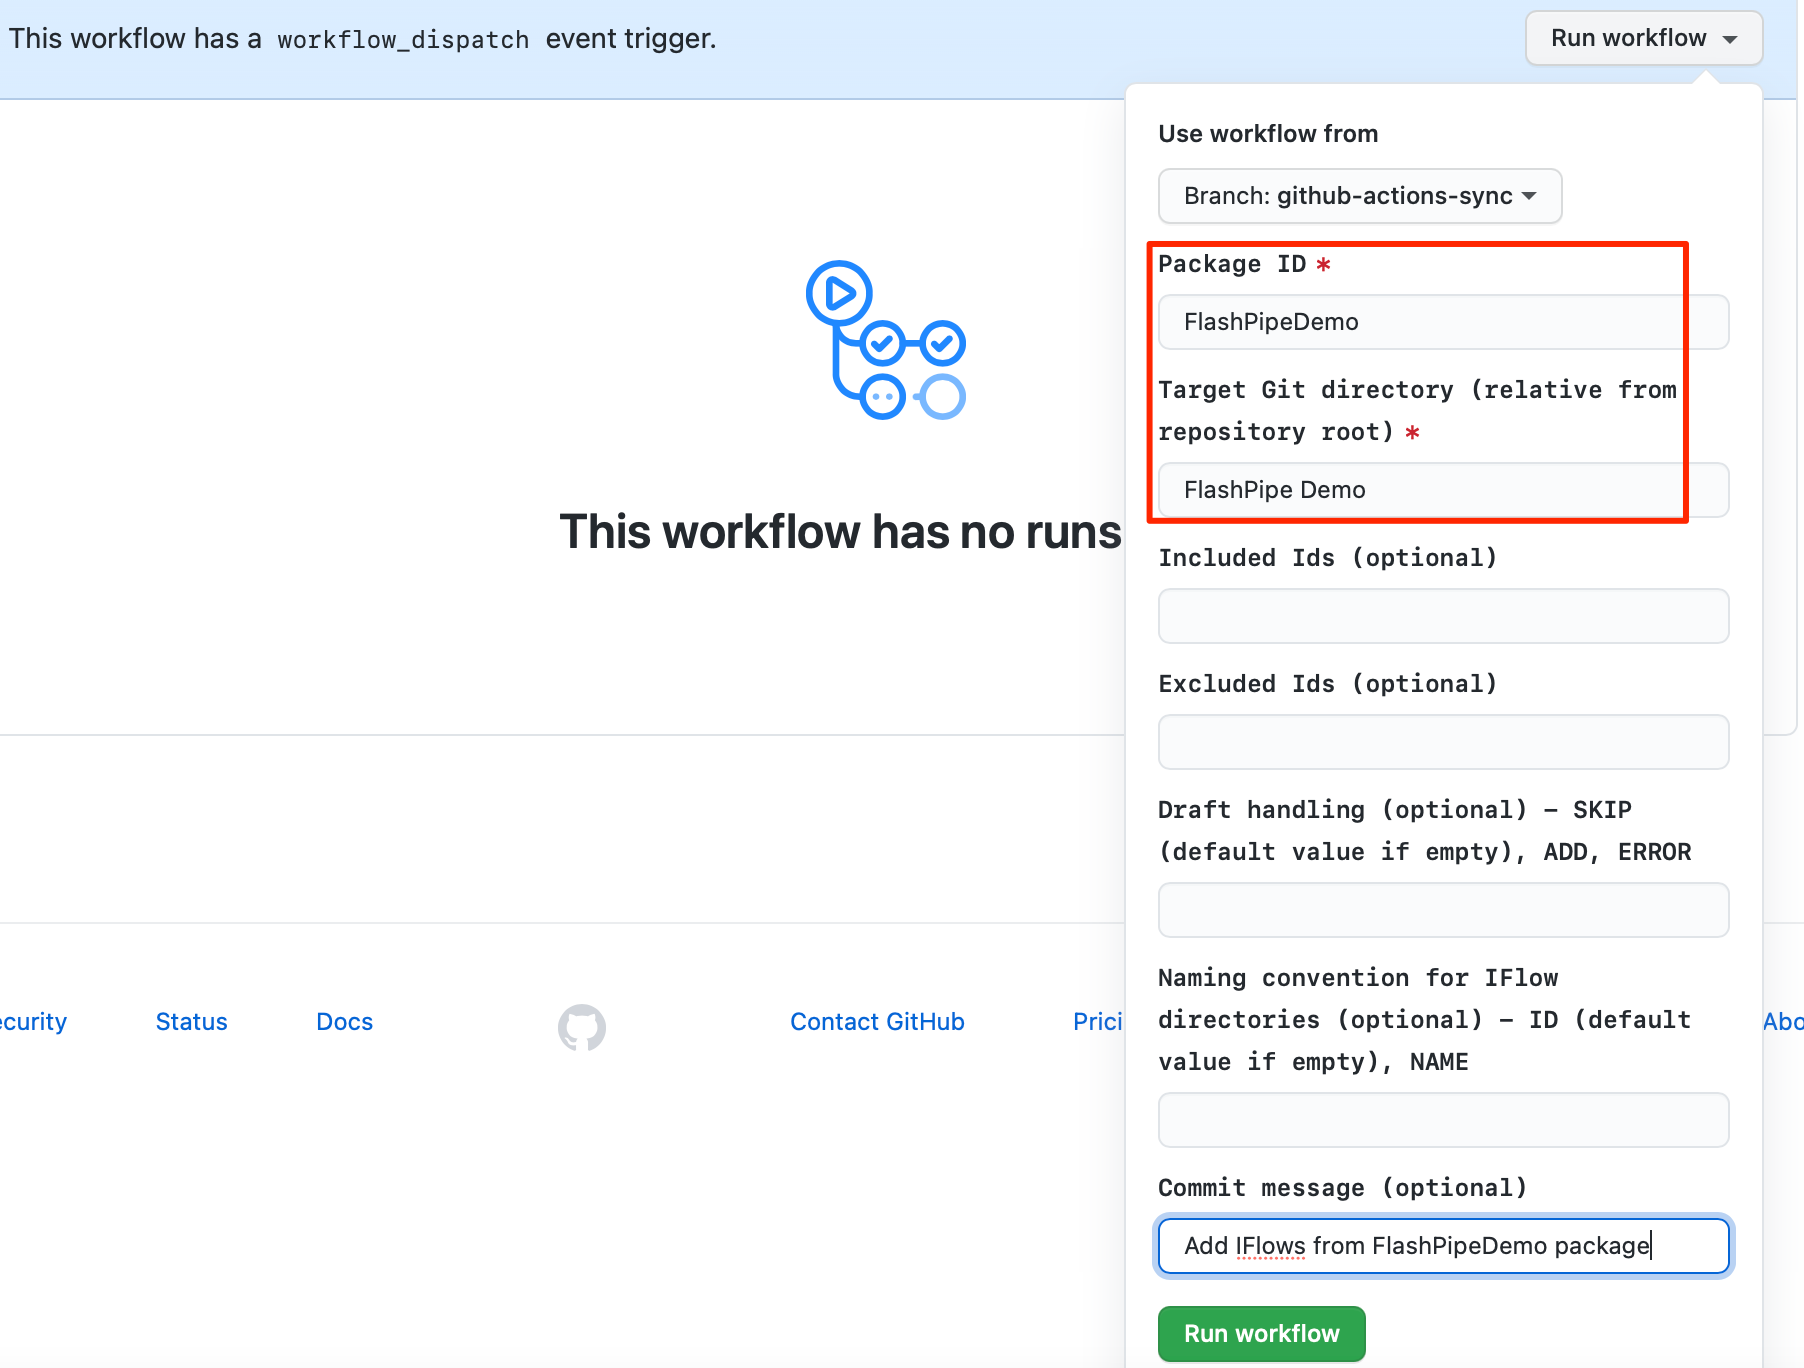
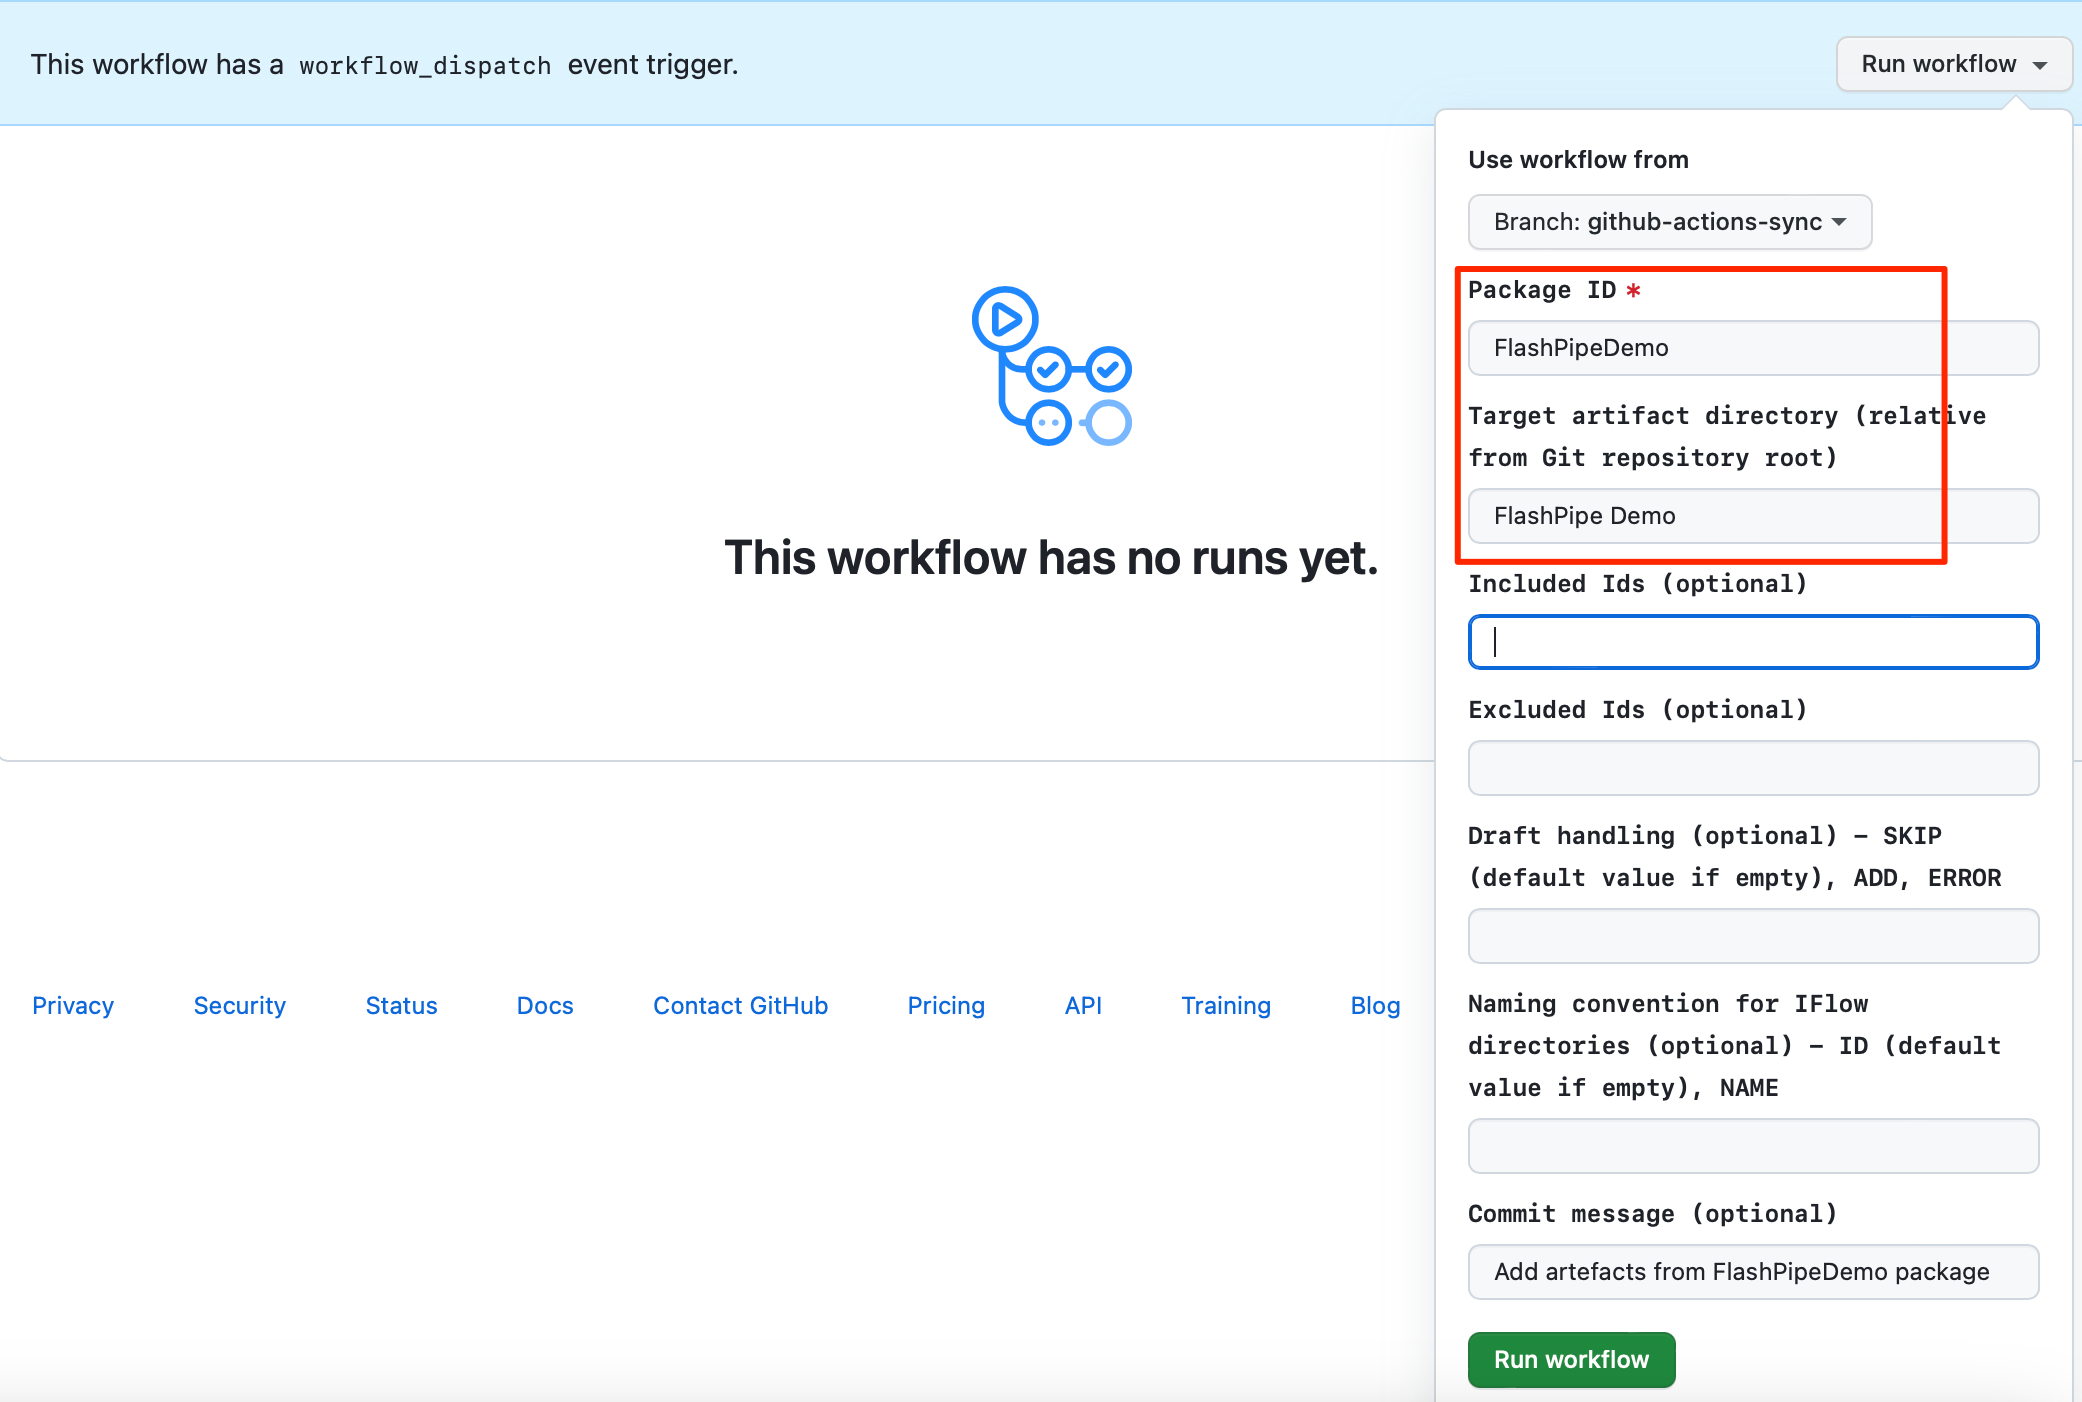
Update screenshots using new FlashPipe 3.0.0 image

diff --git a/docs/github-actions-sync.md b/docs/github-actions-sync.md
@@ -38,7 +38,6 @@ In the GitHub repository, go to `Actions` to create new workflow.
 
 Skip the templates and choose `set up a workflow yourself`.
 
-[//]: # (TODO - update screenshot with YAML showing version 3.0.0)
 Provide a suitable name for the workflow file e.g. `sync-any-iflows.yml` and replace the default content with the code sample below. Replace the tenant and authentication details accordingly.
 ![Sync Workflow](images/setup/git-sync/03b_sync_workflow.png)
 
@@ -54,14 +53,11 @@ This workflow has been configured with `on: workflow_dispatch` event triggering 
 In the GitHub repository, go to `Actions`, select the workflow and click `Run workflow`.
 ![Execute Workflow](images/setup/git-sync/04a_run_workflow.png)
 
-[//]: # (TODO - update screenshot with execution with Go image)
-
 Provide input details for the workflow execution. The mandatory field is the Integration Package ID. 
 ![Workflow Input](images/setup/git-sync/04b_workflow_input.png)
 
 ### 5. View execution results
 
-[//]: # (TODO - update screenshot with execution with Go image)
 During or upon completion of the workflow run, the logs can be viewed by clicking on the workflow run.
 ![Workflow Logs](images/setup/git-sync/05a_logs.png)
 
@@ -80,16 +76,14 @@ Once the initial Git repository has been populated, additional workflows can be 
 Create a new workflow file in the `.github/workflow` directory. Populate the content with the code sample below. Replace the tenant and authentication details accordingly. Then, save and commit the file.
 <script src="https://gist.github.com/engswee/8c1de1b50a51d93a2e4cc6c31d4664f3.js"></script>
 
-This workflow has been hardcoded with specific values for `FLASHPIPE_DIR_GIT_REPO` and `FLASHPIPE_PACKAGE_ID`. It also has two triggering events:
+This workflow has been hardcoded with specific values for `FLASHPIPE_DIR_GIT_REPO`, `FLASHPIPE_DIR_ARTIFACTS` and `FLASHPIPE_PACKAGE_ID`. It also has two triggering events:
 - `on: workflow_dispatch` - which allows it to be executed manually
 - `on: schedule` - executed periodically based on a cron schedule (refer to [crontab guru](https://crontab.guru) for help in generation of the cron syntax)
   
-[//]: # (TODO - update screenshot with YAML with version 3.0.0)
 ![Specific Workflow](images/setup/git-sync/06a_specific_workflow.png)
 
 The workflow can now be triggered manually from the GitHub UI.
 ![Run Specific Workflow](images/setup/git-sync/06b_run_specific.png)
 
-[//]: # (TODO - update screenshot with execution with Go image)
 During any workflow run, if there are no differences between the tenant content and the Git repository, no changes will be committed.
 ![No Changes](images/setup/git-sync/06c_no_changes.png)

diff --git a/docs/azure-pipelines-upload.md b/docs/azure-pipelines-upload.md
@@ -163,7 +163,6 @@ Next, move on to create a new pipeline in the Azure DevOps project.
 Select the Git repository to be used in the pipeline.
 ![Select Repo](images/setup/azure-pipelines/07b_select_repo.png)
 
-[//]: # (TODO - update the screenshot with YAML showing version 3.0.0)
 Since the pipeline YAML file is already created in the repository, it will be loaded. Review it and then select `Run` to execute the pipeline.
 ![Review Run](images/setup/azure-pipelines/07c_review_run.png)
 
@@ -172,6 +171,5 @@ Once the run is triggered, you can monitor its execution and job logs.
 
 **Note**: On the first run of the pipeline, you may be asked to approve access to the Variable Group from the pipeline.
 
-[//]: # (TODO - update the screenshot with run from Go image)
 Upon completion of the run, you can review the logs, and also check the artifact (designtime and runtime) in the Cloud Integration tenant.
 ![Monitor](images/setup/azure-pipelines/08a_job_run.png)

diff --git a/docs/github-actions-upload.md b/docs/github-actions-upload.md
@@ -56,7 +56,5 @@ Create the following repository secrets. Refer to [OAuth client setup page](oaut
 Once all is in place, commit/push the workflow YAML. This will automatically trigger the workflow to be executed, you can monitor its execution and job logs. Go to `Actions` to view the workflows.
 ![Monitor](images/setup/github-actions/06a_action_workflow.png)
 
-[//]: # (TODO - update screenshot with execution with Go image)
-
 Upon completion of the run, you can review the logs, and also check the artifact (designtime and runtime) in the Cloud Integration tenant.
 ![Monitor](images/setup/github-actions/06b_action_logs.png)
